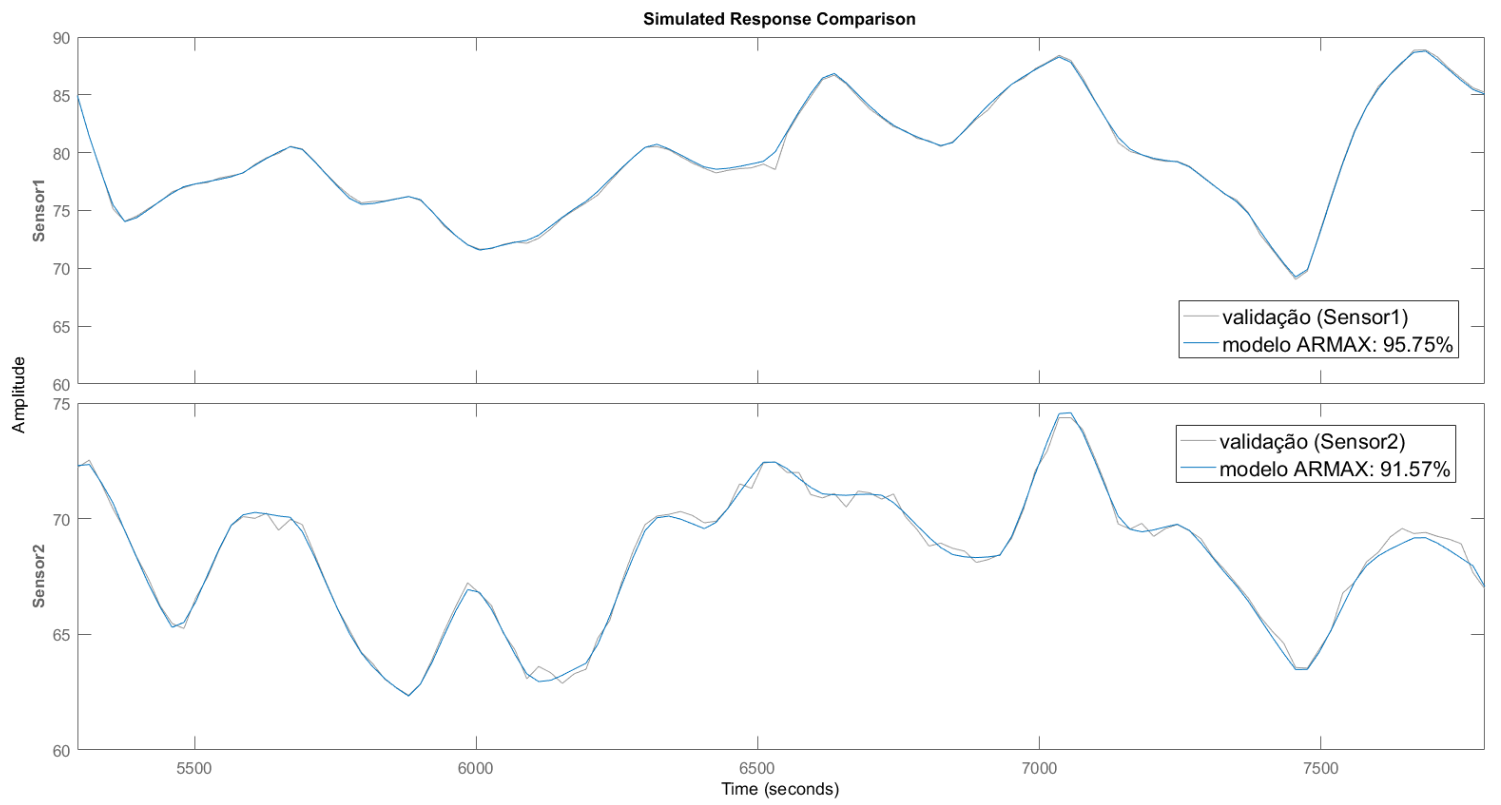
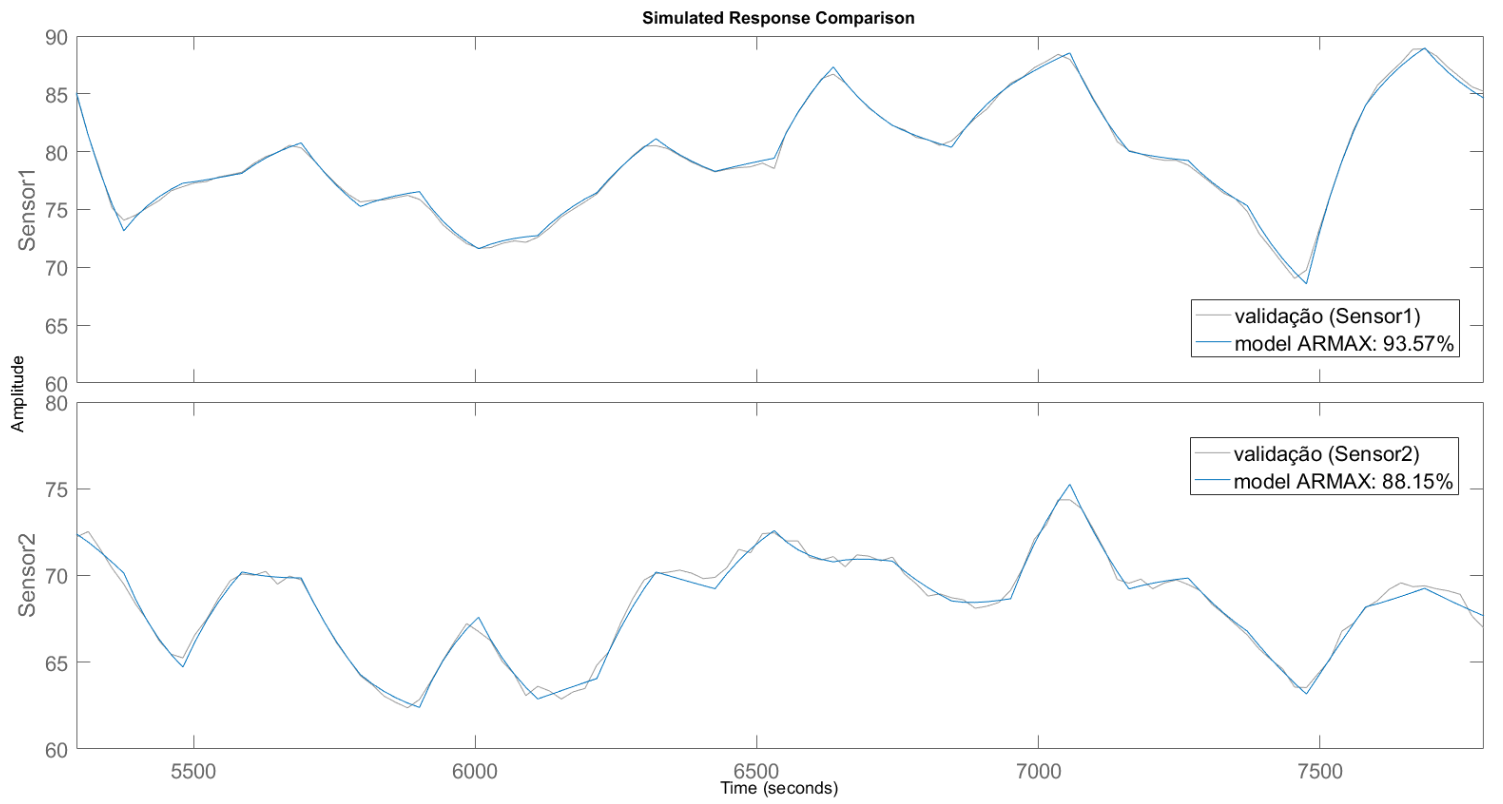
Modelos exp ARMAX atualizados

diff --git a/2_content/metodos.tex b/2_content/metodos.tex
@@ -731,19 +731,14 @@ As combinações utilizadas podem ser vistas na \cref{tab:tclabsp-models-armax}.
 		$n_b$			&
 							$ \begin{bmatrix}	1	&	1	\\	1	&	1	\\	\end{bmatrix} $	,		
 							$ \begin{bmatrix}	2	&	2	\\	2	&	2	\\	\end{bmatrix} $	,		
-							$ \begin{bmatrix}	3	&	3	\\	3	&	3	\\	\end{bmatrix} $	,		
-							$ \begin{bmatrix}	4	&	4	\\	4	&	4	\\	\end{bmatrix} $		\\ \midrule
+							$ \begin{bmatrix}	3	&	3	\\	3	&	3	\\	\end{bmatrix} $	,	\\ \midrule
 		$n_c$			&
 							$ \begin{bmatrix}	1	&	1	\\	1	&	1	\\	\end{bmatrix} $	,		
 							$ \begin{bmatrix}	2	&	2	\\	2	&	2	\\	\end{bmatrix} $	,		
 							$ \begin{bmatrix}	3	&	3	\\	3	&	3	\\	\end{bmatrix} $	,		
 							$ \begin{bmatrix}	4	&	4	\\	4	&	4	\\	\end{bmatrix} $		\\ \midrule
 		$n_k$			&
-							$ \begin{bmatrix}	0	&	0	\\	0	&	0	\\	\end{bmatrix} $	,		
-							$ \begin{bmatrix}	1	&	1	\\	1	&	1	\\	\end{bmatrix} $	,		
-							$ \begin{bmatrix}	2	&	2	\\	2	&	2	\\	\end{bmatrix} $	,		
-							$ \begin{bmatrix}	3	&	3	\\	3	&	3	\\	\end{bmatrix} $	,		
-							$ \begin{bmatrix}	4	&	4	\\	4	&	4	\\	\end{bmatrix} $		\\ \bottomrule
+							$ \begin{bmatrix}	1	&	1	\\	1	&	1	\\	\end{bmatrix} $		\\ \bottomrule
 	\end{tabular}
 	\caption*{Fonte: Autor}
 \end{table}
@@ -775,28 +770,28 @@ e sua análise residual podem ser vistos na \cref{tab:tclabsp-model-armax}, na \
 		$Sensor_1$			&
 								$ 
 									\begin{aligned}
-										\text{Formato:}																		\\
-										A(z)y_1(t) &= - A_i(z)y_i(t) + B(z)u(t) + C(z)e_1(t)								\\
-										\text{Onde:}																		\\
-										A(z) &= 1 - 2.065 z^{-1} + 1.21 z^{-2} - 0.0912 z^{-3} - 0.0506 z^{-4}       		\\
-										A_2(z) &= -0.01859 z^{-1} - 0.05489 z^{-2} + 0.115 z^{-3} - 0.04455 z^{-4}   		\\ 
-										B1(z) &= 0.03843 + 0.01122 z^{-1} - 0.04769 z^{-2}                        		 	\\
-										B2(z) &= 0.004763 - 0.006549 z^{-1} + 0.0007073 z^{-2}                    		 	\\
-										C(z) &= 1 - 2.037 z^{-1} + 1.252 z^{-2} - 0.1622 z^{-3} - 0.05266 z^{-4}    
+										\text{Formato:}													\\
+										A(z)y_1(t) &= - A_i(z)y_i(t) + B(z)u(t) + C(z)e_1(t)			\\
+										\text{Onde:}													\\
+										A(z) &= 1 - 1.804 z^{-1} + 0.8137 z^{-2}      					\\
+										A_2(z) &= -0.09524 z^{-1} + 0.08503 z^{-2}  					\\							
+										B1(z) &= 0.1164 z^{-1} - 0.1108 z^{-2}     						\\				
+										B2(z) &= 0.004773 z^{-1} - 0.008481 z^{-2} 						\\				
+										C(z) &= 1 - 1.683 z^{-1} + 0.6901 z^{-2}    
 									\end{aligned}
 								$	
 							\\ \midrule
 		$Sensor_2$			&
 								$ 
 									\begin{aligned}
-										\text{Formato:}																		\\
-										A(z)y_2(t) &= - A_i(z)y_i(t) + B(z)u(t) + C(z)e_2(t)								\\
-										\text{Onde:}																		\\
-										A(z) &= 1 - 2.586 z^{-1} + 2.547 z^{-2} - 1.166 z^{-3} + 0.2195 z^{-4}          	\\
-										A_1(z) &= 0.02167 z^{-1} - 0.2072 z^{-2} + 0.2423 z^{-3} - 0.07087 z^{-4}   		\\
-										B1(z) &= -0.0004278 + 0.007959 z^{-1} - 0.0159 z^{-2}                 			 	\\
-										B2(z) &= 0.02851 - 0.02749 z^{-1} + 0.004346 z^{-2}                  				\\
-										C(z) &= 1 - 2.487 z^{-1} + 2.379 z^{-2} - 1.086 z^{-3} + 0.2112 z^{-4}     			
+										\text{Formato:}													\\
+										A(z)y_2(t) &= - A_i(z)y_i(t) + B(z)u(t) + C(z)e_2(t)			\\
+										\text{Onde:}													\\
+										A(z) &= 1 - 1.72 z^{-1} + 0.7437 z^{-2}       					\\
+										A_1(z) &= -0.1496 z^{-1} + 0.1278 z^{-2}   						\\				
+										B1(z) &= 0.003022 z^{-1} - 0.01553 z^{-2} 						\\				
+										B2(z) &= 0.06256 z^{-1} - 0.05434 z^{-2}  						\\				
+										C(z) &= 1 - 1.67 z^{-1} + 0.6744 z^{-2}     			
 									\end{aligned}
 								$
 							\\ \bottomrule
